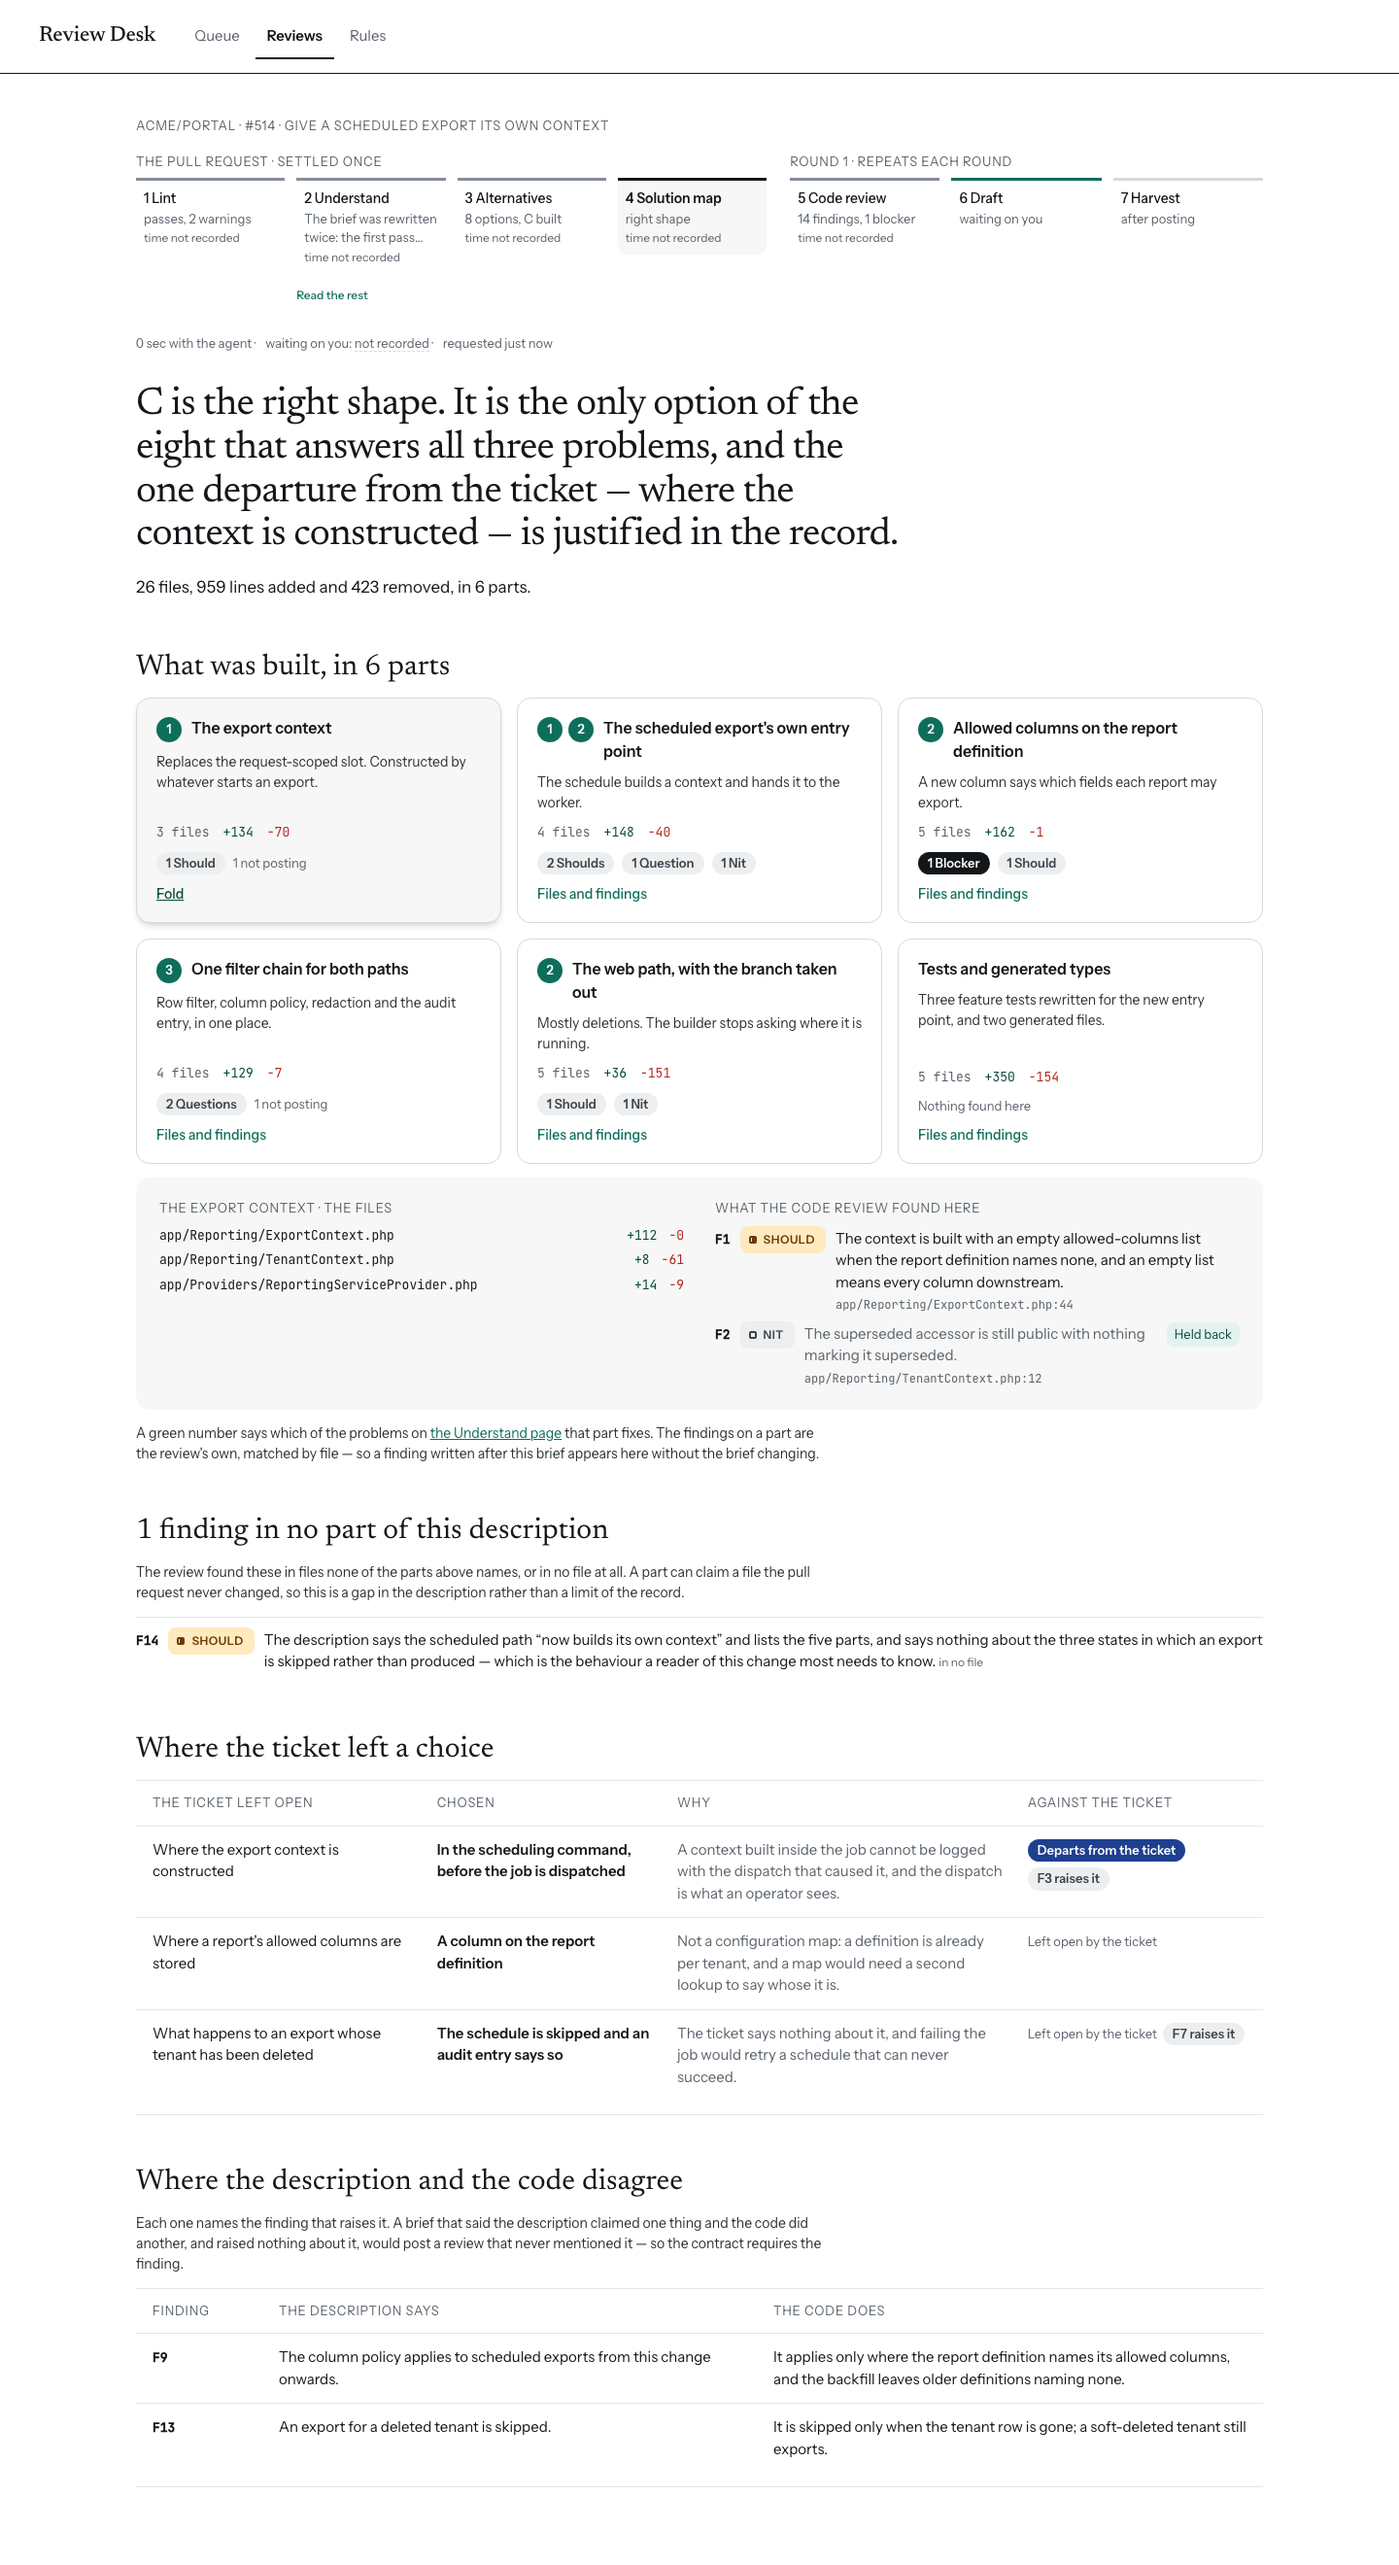
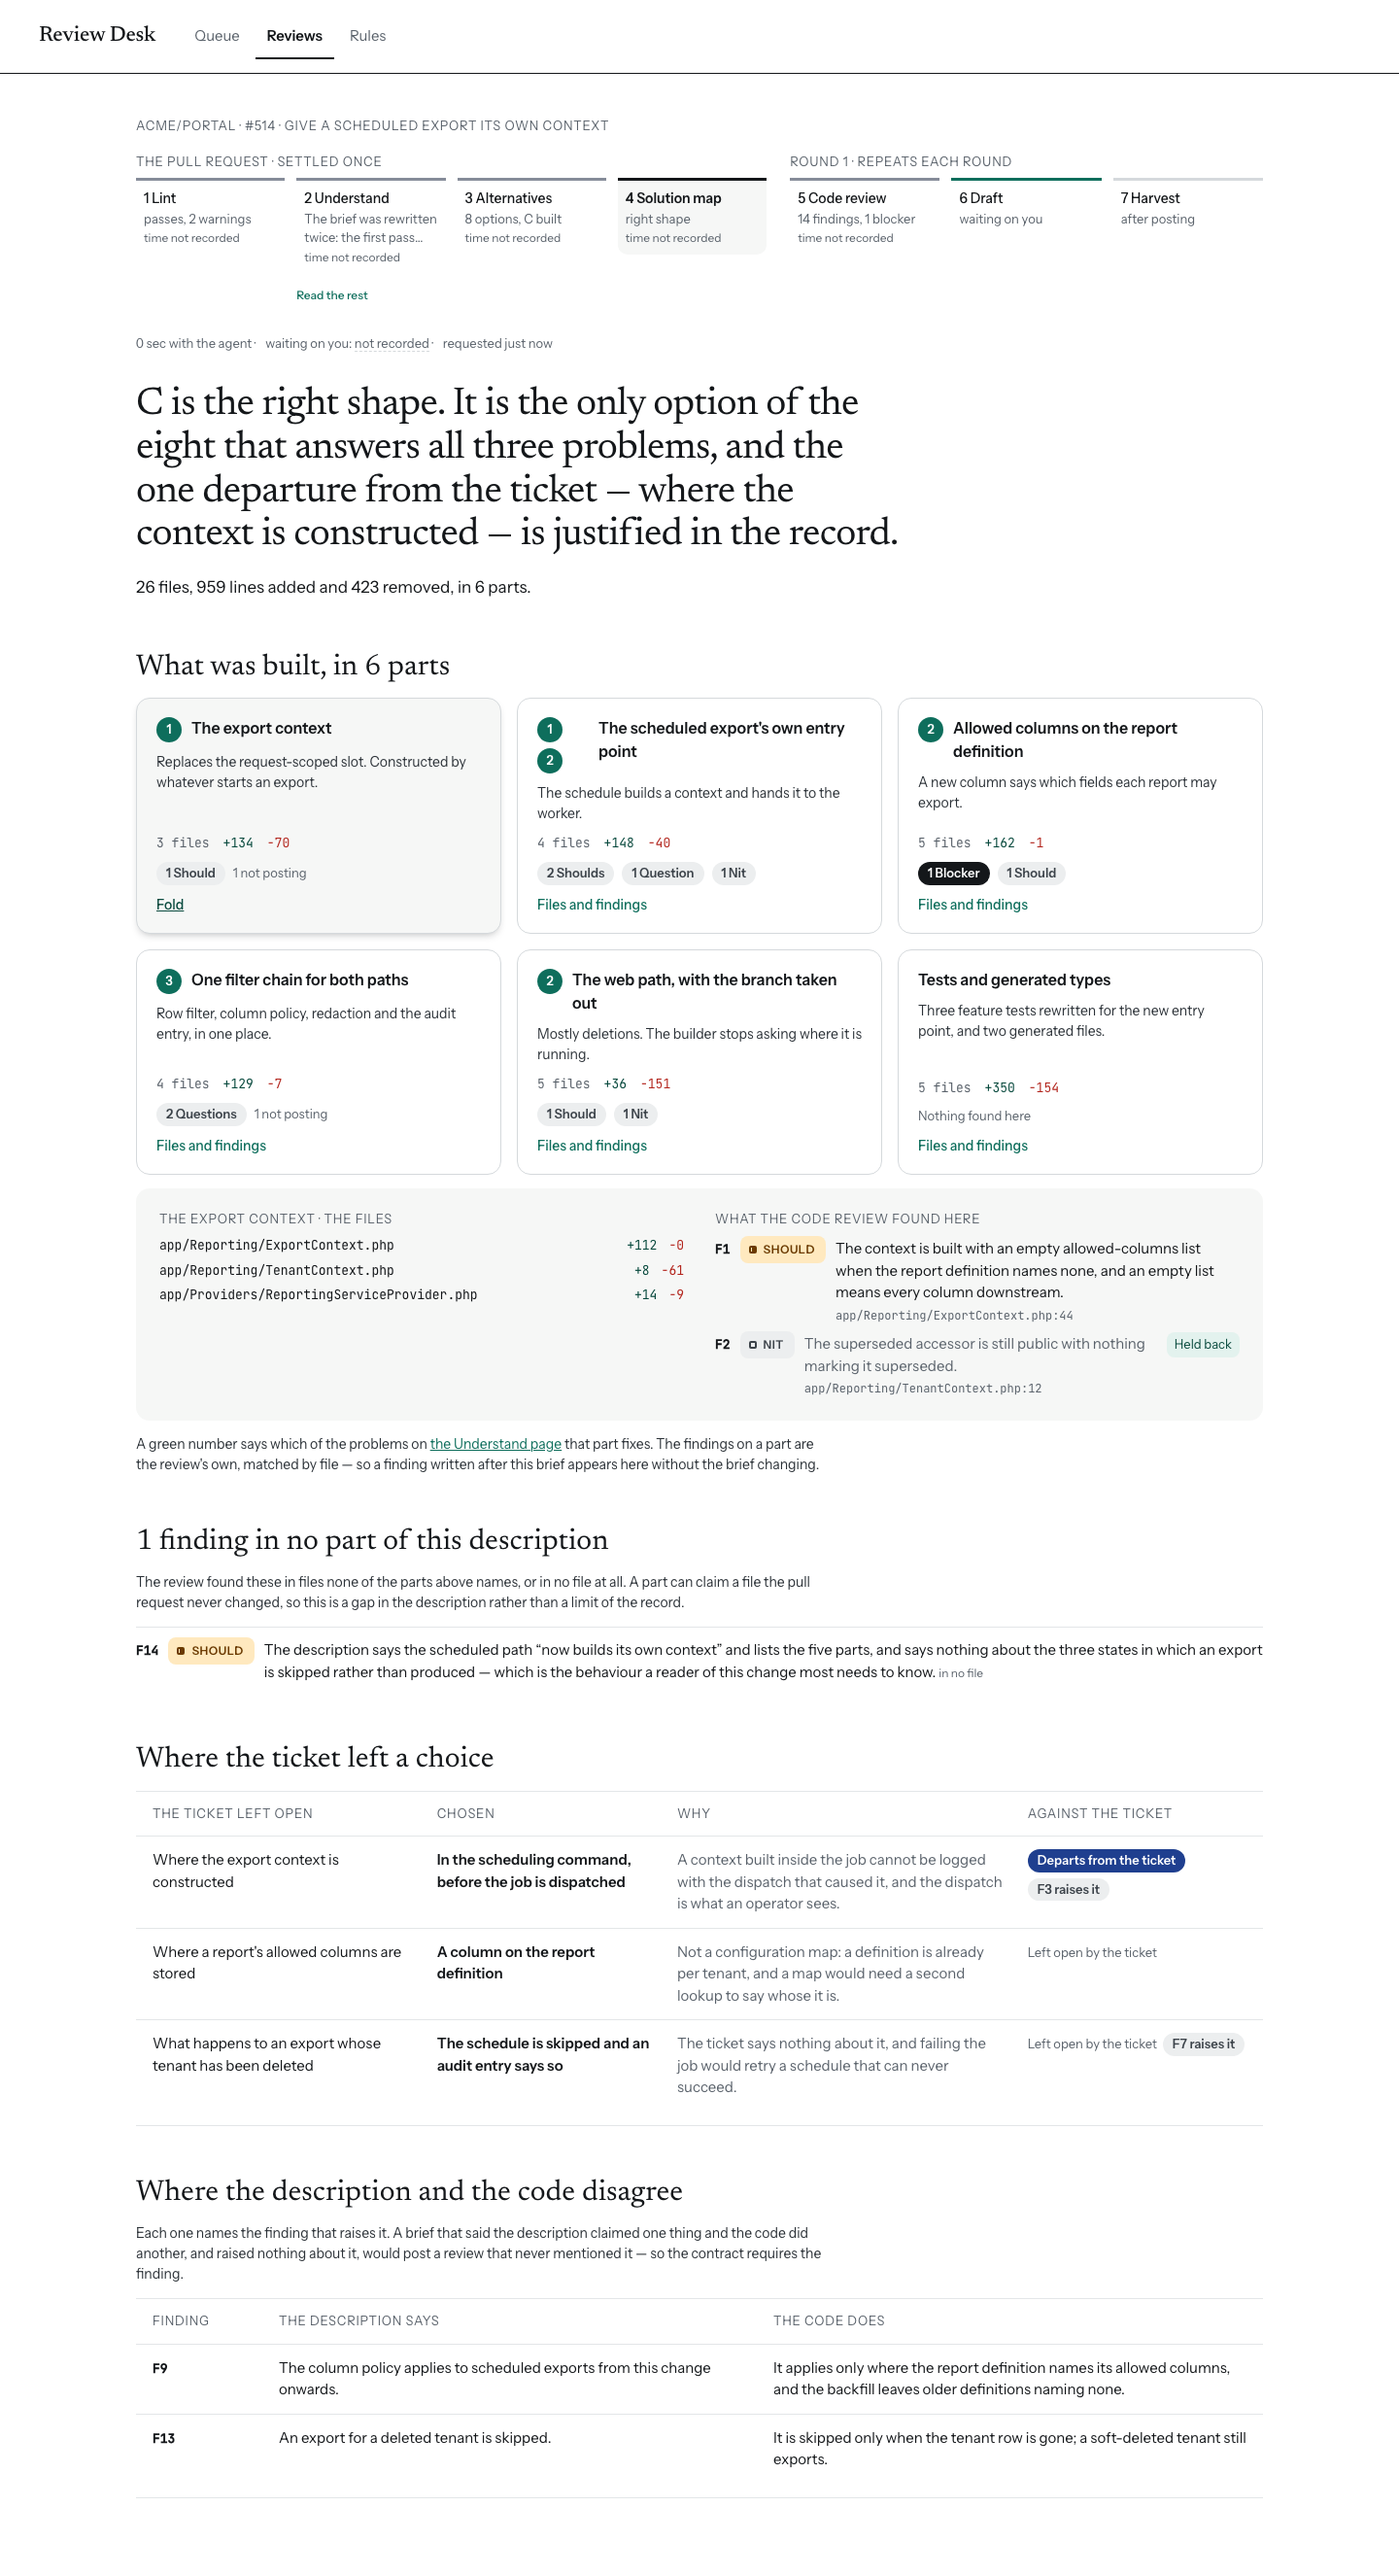
Three things a second read of the branch found, all real [DEV-892]
**The findings in no part were still dimmed by their disposition.** The rows
inside a part and the card's count moved to `willPost` in `ebefc06`; this list,
three inches under them on the same page, did not. A finding carried in as
`fixed` and still at `in_draft` was drawn here full-strength — as something the
author will read — under a card counting it as not posting. One page was
answering the same question two ways. It carries the round status now, the way
a row inside a part does, so the difference is on the row rather than left to a
reader to notice.

**`.outcome--whole` turned off one clamp of the two.** `-webkit-line-clamp`
needs `-webkit-box` and so is defeated by `display: block`; the standard
`line-clamp` beside it clamps a block container on its own. No engine
implements it today — `CSS.supports('line-clamp','2')` is false in Chromium 156
— which is exactly why the declaration is in the stylesheet, and the day one
does "Read the rest" would have revealed nothing while still reading "Fold".
Both are turned off now.

**`.part-marks { flex: none }` made its own `flex-wrap: wrap` dead**, and the
comment above it promised wrapping. Nothing caps how many problems a part may
fix: nine marks measure 282px of a 340px card and leave the title six pixels,
which is defect 5 again in a different shape. The lane may shrink and is capped
at half the head, so it wraps into rows of its own and the title always has the
other half.
[…]

diff --git a/web/app/pages/reviews/[id]/solution.vue b/web/app/pages/reviews/[id]/solution.vue
@@ -470,7 +470,7 @@ function severityWord(severity: string, n: number): string {
               v-for="finding in findingsInNoPart(data, data.brief)"
               :key="finding.seq"
               class="finding"
-              :class="{ 'finding--aside': finding.disposition !== 'in_draft' }"
+              :class="{ 'finding--aside': !willPost(finding) }"
             >
               <span class="rd-mono key">{{ finding.key }}</span>
               <SeverityTag :severity="finding.severity" />
@@ -487,6 +487,23 @@ function severityWord(severity: string, n: number): string {
                   class="rd-meta where"
                 >in no file</span>
               </span>
+              <!--
+                **The same two marks as a row inside a part**, and for the same reason. This
+                list dimmed by the disposition while the one above it dimmed by `willPost`,
+                so a finding carried in as `fixed` and still at `in_draft` was drawn here
+                full-strength — as something the author will read — three inches under a
+                card counting it as not posting. One page, one vocabulary.
+              -->
+              <DispositionTag
+                v-if="finding.disposition !== 'in_draft'"
+                :disposition="finding.disposition"
+              />
+              <DeskPill
+                v-if="roundStatusLabel(finding)"
+                :tone="isStillOpen(finding.round_status) ? 'info' : 'quiet'"
+              >
+                {{ roundStatusLabel(finding) }}
+              </DeskPill>
             </li>
           </ul>
         </section>
@@ -722,12 +739,21 @@ function severityWord(severity: string, n: number): string {
   min-width: 0;
 }
 
-/* The marks keep their own line and wrap as whole circles if a part fixes several. */
+/*
+ * The marks keep their own lane and wrap as whole circles if a part fixes several.
+ *
+ * **`0 1 auto` and a half-width cap, not `flex: none`.** Fixed at max-content the lane could
+ * not wrap at all, and nothing caps how many problems a part may fix: nine marks came to
+ * 282px of a 340px card and left the title six pixels, which is defect 5 again wearing a
+ * different hat. Capped, the lane wraps into rows of its own and the title always has half
+ * the head.
+ */
 .part-marks {
-  flex: none;
+  flex: 0 1 auto;
   display: flex;
   flex-wrap: wrap;
   gap: 6px;
+  max-width: 50%;
 }
 
 .part-title {

diff --git a/web/test/step-pages.nuxt.spec.ts b/web/test/step-pages.nuxt.spec.ts
@@ -1470,6 +1470,37 @@ describe('Solution', () => {
     expect(whole.text()).not.toContain('in no part of this description')
   })
 
+  /**
+   * **The list of findings in no part speaks the same vocabulary as a part's own.**
+   *
+   * Found reviewing DEV-892's own diff: the per-part rows and the card's count moved to
+   * `willPost`, and this list was left dimming by the disposition. A finding carried from an
+   * earlier round as `fixed` and still at `in_draft` was then drawn here full-strength — as
+   * something the author will read — three inches under a card counting it as not posting.
+   */
+  it('dims a finding in no part by the same rule a part’s own rows use', async () => {
+    const detail = fixture(STRUCTURED)
+    const loose = detail.findings.find(
+      finding => finding.file == null && finding.disposition === 'in_draft',
+    )!
+    expect(loose, 'the example has a finding in no part that would post').toBeTruthy()
+
+    detail.findings = detail.findings.map(finding =>
+      finding.seq === loose.seq
+        ? { ...finding, round_status: 'fixed' as const, continues_review_id: 40 }
+        : finding)
+    await withReview(detail)
+
+    const page = await solution(STRUCTURED)
+    const row = page.findAll('.findings--loose .finding')
+      .find(one => one.text().includes(loose.key))!
+    expect(row, 'the finding is still listed').toBeTruthy()
+
+    /* The disposition did not move; what the author receives did. */
+    expect(row.classes()).toContain('finding--aside')
+    expect(row.text()).toContain('Fixed')
+  })
+
   it('draws the open-choices table, which Understand leaves to it', async () => {
     const page = await solution(STRUCTURED)
     expect(page.text()).toContain('Where the ticket left a choice')

diff --git a/web/app/components/StepTrail.vue b/web/app/components/StepTrail.vue
@@ -367,10 +367,20 @@ a.face:hover .name {
   overflow-wrap: break-word;
 }
 
-/* Opened: the same span, unclamped, so the note grows where it already was. */
+/*
+ * Opened: the same span, unclamped, so the note grows where it already was.
+ *
+ * **Both clamps are turned off, not just the display they share.** `-webkit-line-clamp`
+ * needs `-webkit-box` and so is defeated by `display: block` alone — but the standard
+ * `line-clamp` above clamps a block container on its own, and no engine implements it yet.
+ * The day one does, a `display: block` that left `line-clamp: 2` standing would make "Read
+ * the rest" reveal nothing while still reading "Fold".
+ */
 .outcome--whole {
   display: block;
   overflow: visible;
+  -webkit-line-clamp: none;
+  line-clamp: none;
 }
 
 /*
